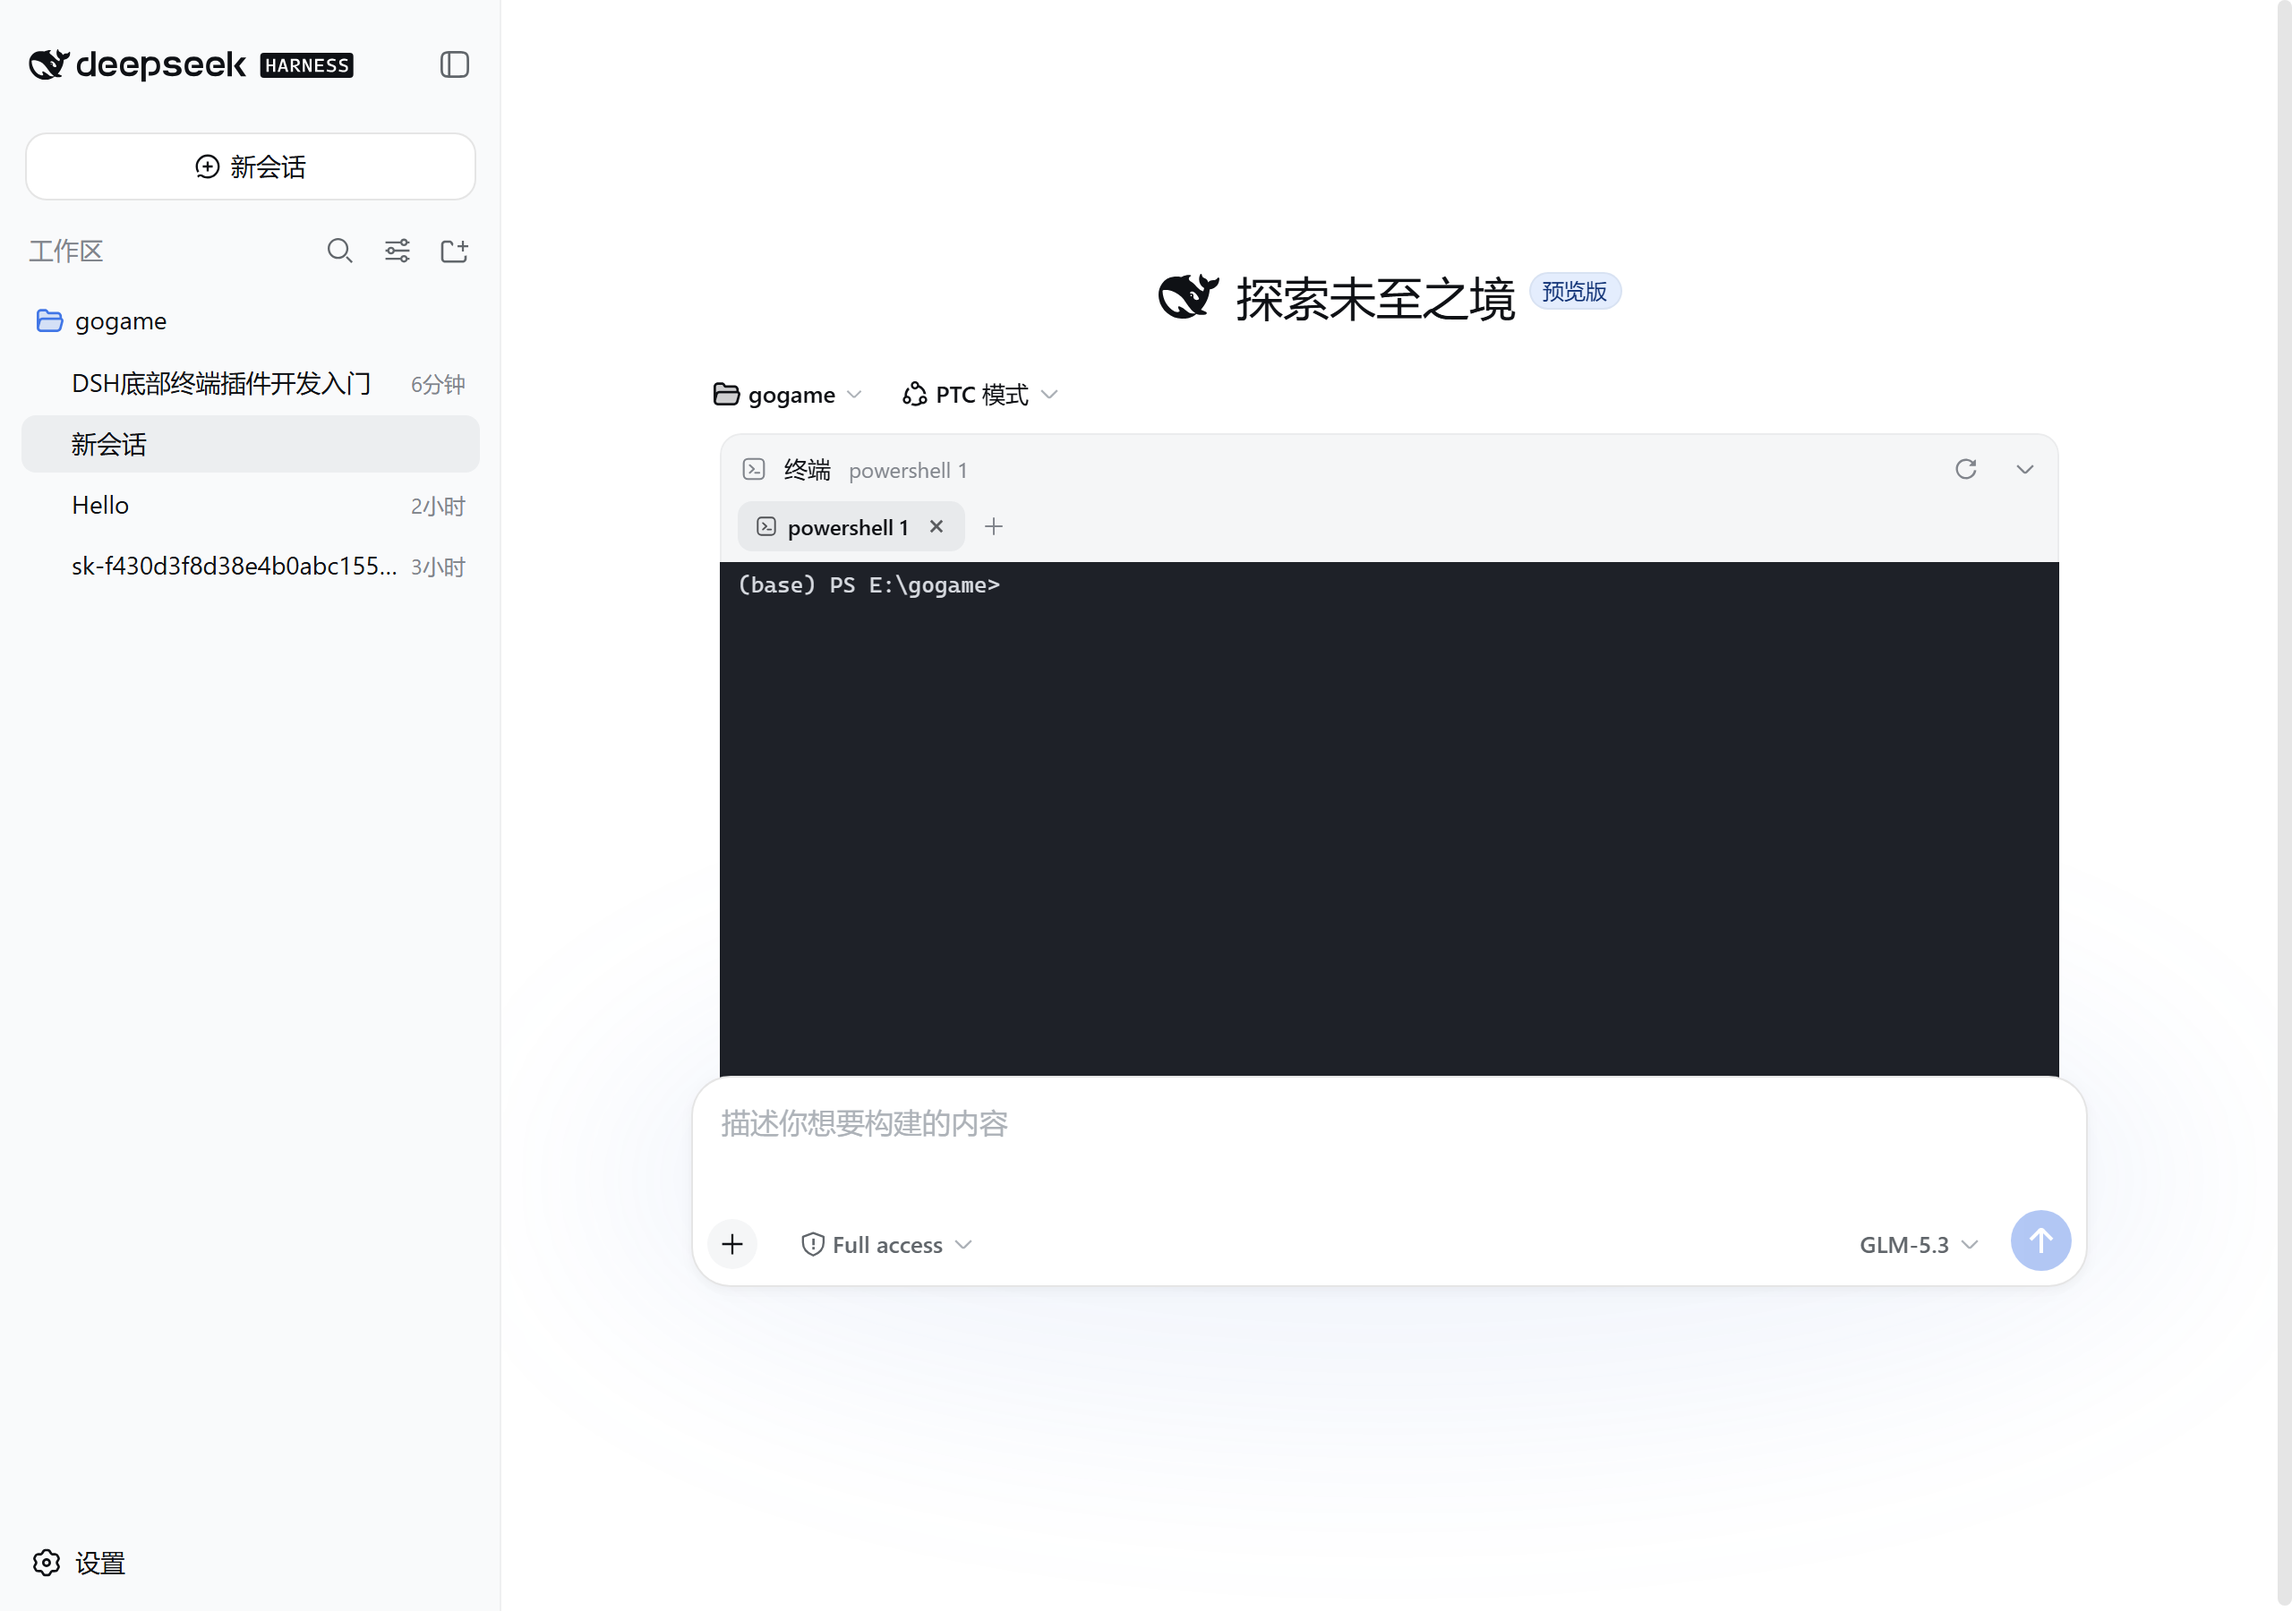
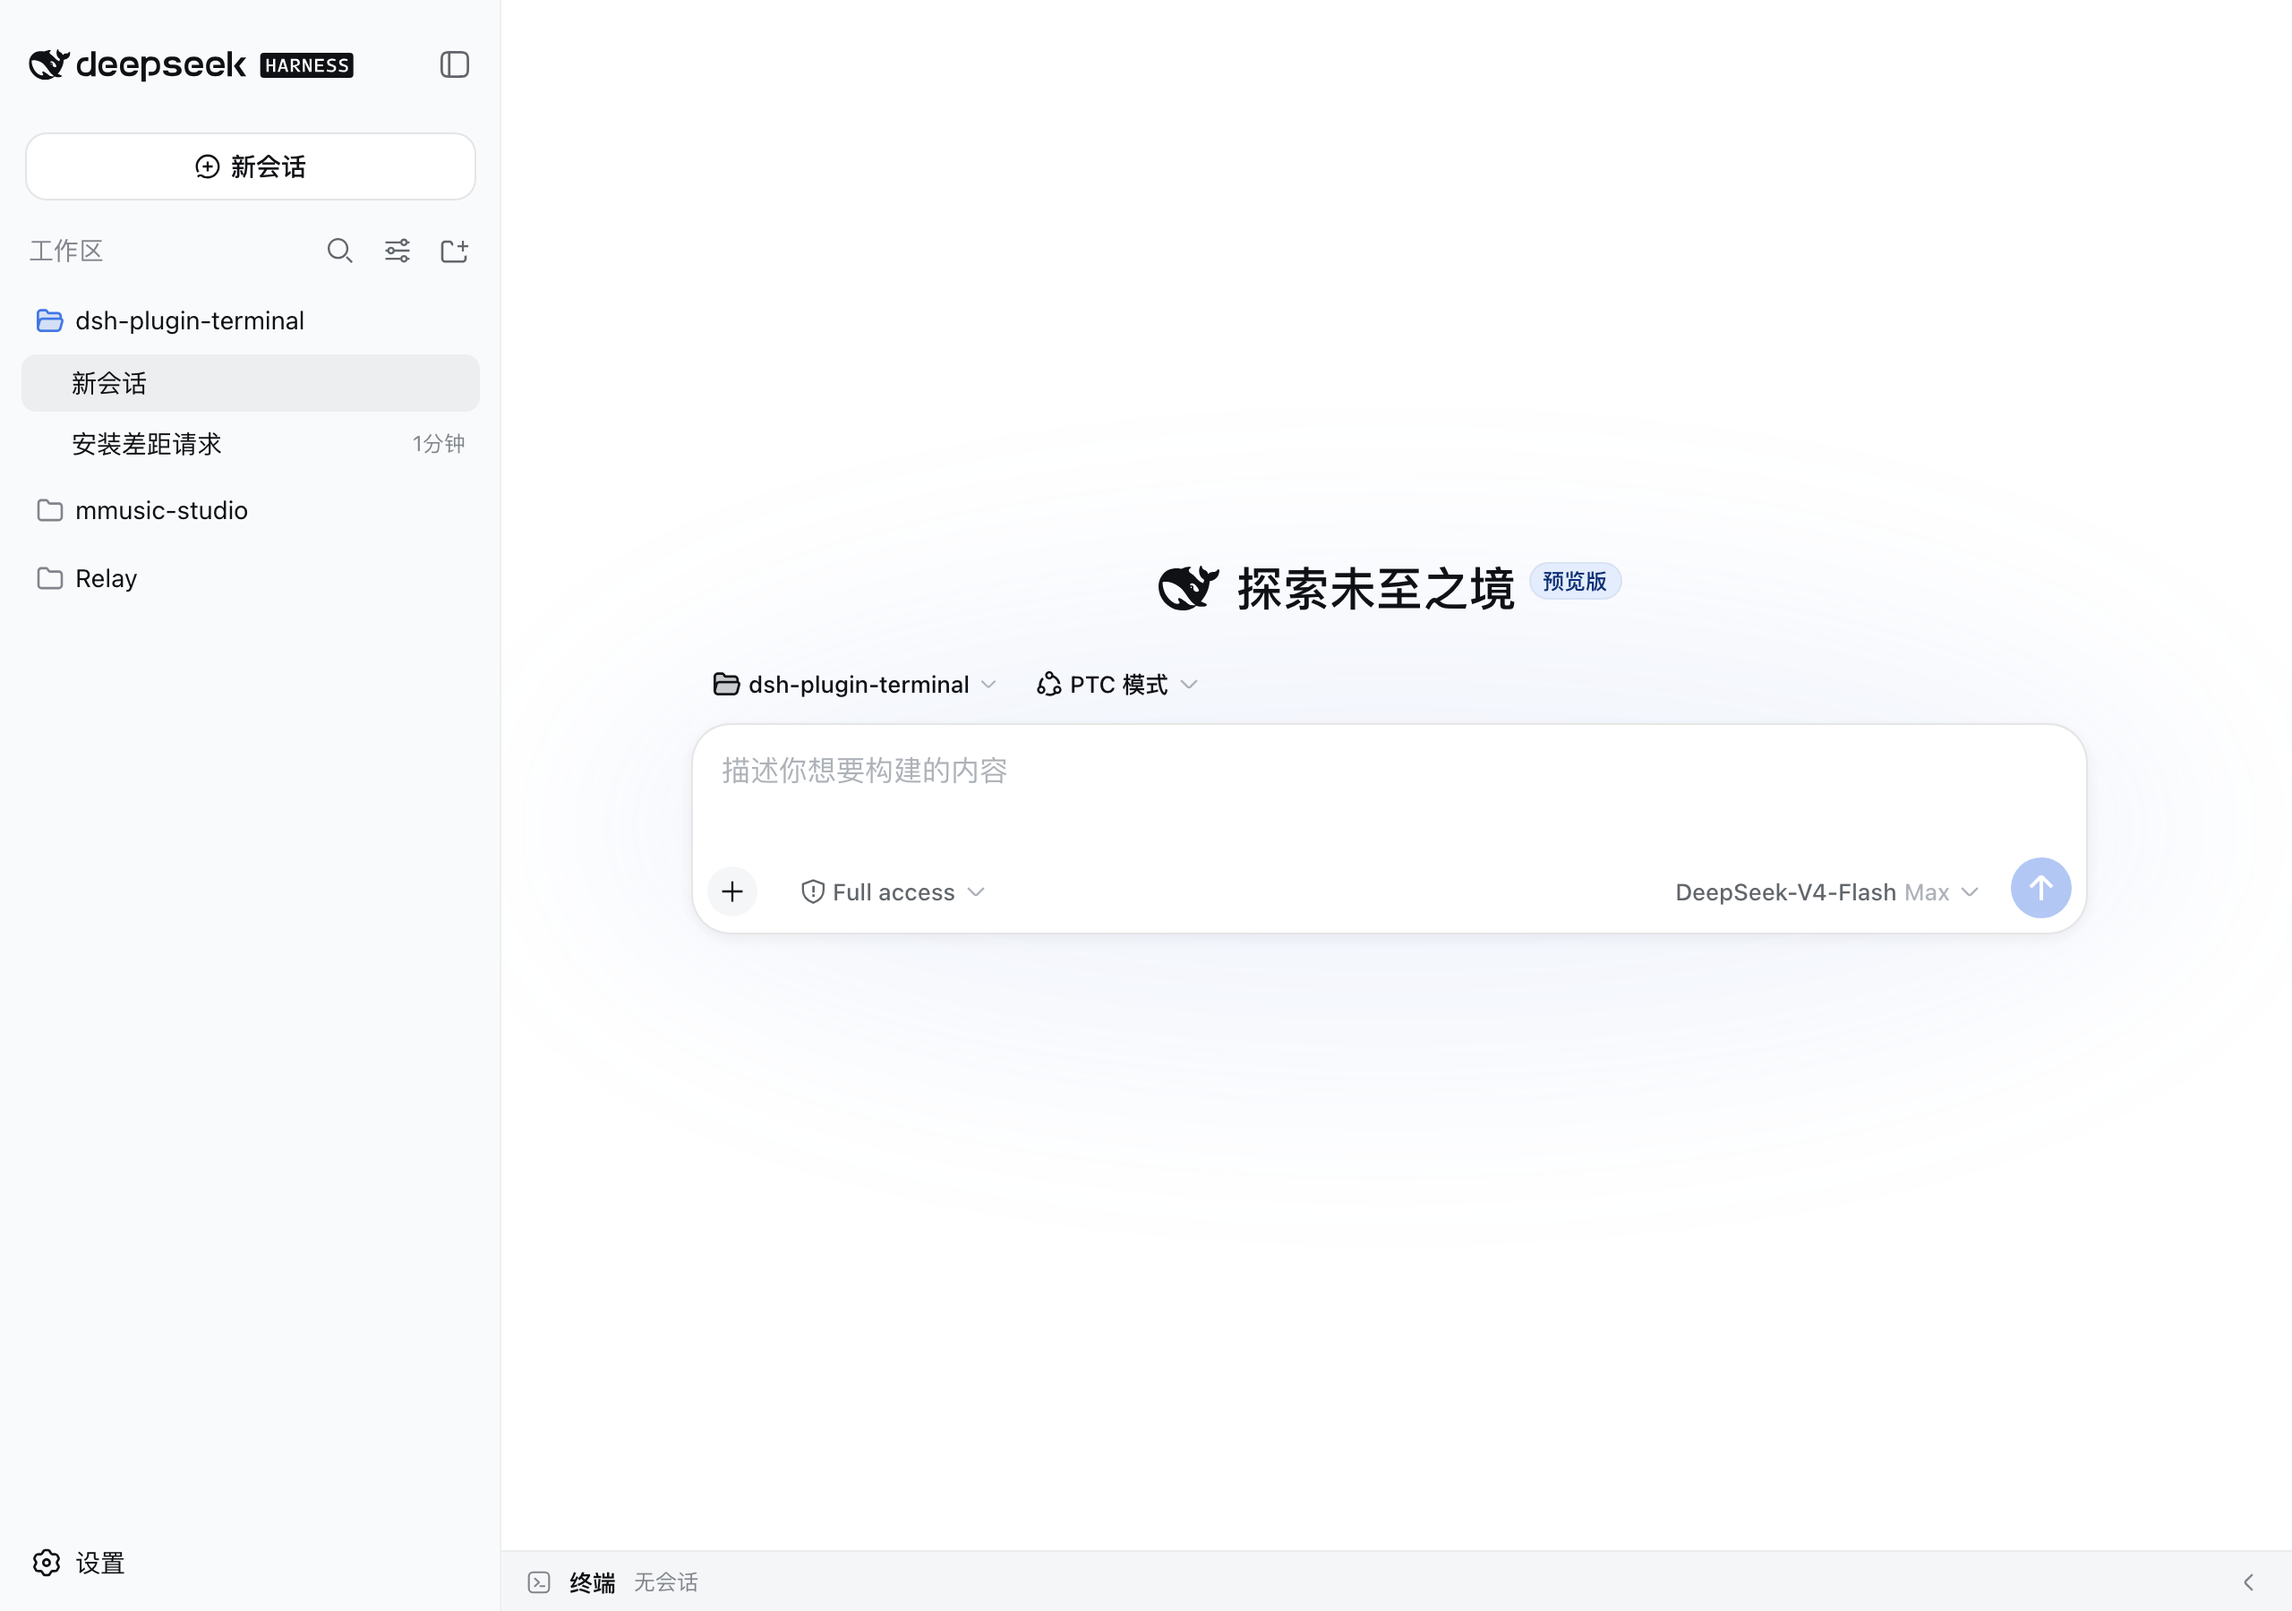
docs: bilingual README (EN + zh) with live screenshots
- README.md (English) and README.zh.md (Chinese), cross-linked
- screenshots captured via CDP headless Chrome (collapsed / expanded /
  multi-tab) into docs/, no sensitive content
- package.json files include README.zh.md

diff --git a/README.md b/README.md
@@ -1,59 +1,64 @@
 # dsh-plugin-terminal
 
-> DeepSeek Harness (DSH) Web GUI 的底部终端面板插件 —— 在页面底部挂一个真正可交互的多标签 shell（Windows 走 ConPTY，Linux/macOS 走 openpty）。
+> A bottom terminal panel plugin for the DeepSeek Harness (DSH) Web GUI — a real, interactive multi-tab shell pinned to the bottom of the page (ConPTY on Windows, openpty on Linux/macOS).
 
-[![License: MIT](https://img.shields.io/badge/License-MIT-yellow.svg)](LICENSE)
+[中文](README.zh.md) · [![License: MIT](https://img.shields.io/badge/License-MIT-yellow.svg)](LICENSE)
 
-## 用户说明
+## Screenshots
 
-- **底部终端面板**：固定在页面底部，宽度自动对齐对话列（不覆盖左侧栏/右侧栏）；**输入框始终在终端上方**，展开面板不影响对话输入
-- **展开/收起**：点击底部细条，或按 `Ctrl+``（反引号键）一键切换；折叠时细条显示当前会话状态
-- **调整高度**：拖拽面板顶部的 grip，高度范围 120px ~ 78% 视口，拖完自动记忆（`localStorage`）
-- **多标签页**：`+` 新建终端、✕ 关闭、⟳ 原位重启；每个标签独立会话，切换不中断进程；**刷新页面自动恢复全部存活会话**
-- **完整终端体验**：xterm.js 6 仿真——颜色、闪烁光标、备用屏幕（vim/htop 全屏程序）、Unicode 宽度、5000 行回滚
-- **低延迟**：WebSocket 双向通道与 PTY 直连
-- **暗色终端表面**（Windows Terminal 调色板）：深浅主题下所有终端颜色均可读
+| Collapsed bar | Expanded panel | Multi-tab |
+|---|---|---|
+| ![collapsed](docs/screenshot-collapsed.png) | ![panel](docs/screenshot-panel.png) | ![multitab](docs/screenshot-multitab.png) |
 
-### 常见问题
+## Features
 
-| 症状 | 处理 |
+- **Bottom terminal panel**: pinned to the bottom of the viewport; width tracks the conversation column automatically (side rails are never covered); **the input dialog always floats above the terminal**, so expanding the panel never blocks conversation input
+- **Toggle & resize**: click the bottom bar, or press `Ctrl+`` to toggle; drag the grip on top of the panel to resize (120px ~ 78% of the viewport, persisted in `localStorage`)
+- **Multi-tab**: `+` opens a new terminal, each tab owns an independent PTY session and scrollback, switching tabs never interrupts processes, ✕ closes, ⟳ restarts in place; **refreshing the page restores every live session as a tab**
+- **Full terminal experience**: xterm.js 6 — colors, blinking cursor, alternate screen (vim/htop), Unicode width, 5000-line scrollback
+- **Low latency**: WebSocket duplex channel straight to the PTY
+- **Dark terminal surface** (Windows Terminal palette): ANSI colors stay readable in both light and dark DSH themes
+
+### FAQ
+
+| Symptom | Fix |
 |---|---|
-| PTY 启动失败（`posix_spawnp failed`） | node-pty 预编译的 `spawn-helper` 丢失可执行位：`chmod +x <repo>/node_modules/.pnpm/node-pty@*/node_modules/node-pty/prebuilds/<platform>-<arch>/spawn-helper` |
-| pnpm 提示 `Ignored build scripts: node-pty` | 在 profile 的 `pnpm-workspace.yaml` 声明 `onlyBuiltDependencies`（见安装说明）后重跑 `pnpm install` |
-| 刷新后面板不出现 | 确认插件已进层栈（`dsh --profile web --dump-config` 应含 `terminal-panel`），并已重启 `dsh web` |
+| PTY spawn fails (`posix_spawnp failed`) | node-pty's prebuilt `spawn-helper` lost its executable bit: `chmod +x <repo>/node_modules/.pnpm/node-pty@*/node_modules/node-pty/prebuilds/<platform>-<arch>/spawn-helper` |
+| pnpm says `Ignored build scripts: node-pty` | add `onlyBuiltDependencies` (see Install) to the profile's `pnpm-workspace.yaml`, then re-run install |
+| Panel missing after refresh | make sure the plugin is in the layer stack (`dsh --profile web --dump-config` contains `terminal-panel`) and `dsh web` was restarted |
 
-## 安装说明
+## Install
 
-前置：已安装 `dsh` 并初始化过 web profile（`~/.dsh/profiles/web`）；需要 `pnpm`（`dsh plugin` 会把参数转发给 pnpm）。
+Prereq: `dsh` installed with a web profile initialized (`~/.dsh/profiles/web`); `pnpm` required (`dsh plugin` forwards its args to pnpm).
 
-### 一行安装（npm 已发布版本）
+### One-line install (npm package)
 
 ```sh
-# 安装（声明了 dsh.bundle，自动进入 profile 层栈，无需手动配置）
+# installs as an official bundle (declares dsh.bundle) - no manual config needed
 dsh plugin --profile web add dsh-plugin-terminal
 
-# 重启生效
-# （若 pnpm 提示 Ignored build scripts: node-pty，先在 profile 的 pnpm-workspace.yaml 加入：）
+# restart to activate
+# (if pnpm reports "Ignored build scripts: node-pty", first add this to the
+#  profile's pnpm-workspace.yaml, then re-run the add command:)
 # onlyBuiltDependencies:
 #   - node-pty
-# 然后重新执行上面的 add 命令
 dsh web
 ```
 
-### 本地/开发安装（改代码即时生效）
+### Local / development install (source changes apply live)
 
 ```sh
-dsh plugin --profile web add -w --link <本仓库路径>
+dsh plugin --profile web add -w --link <repo path>
 dsh web
 ```
 
-只想临时试用（不动 profile 配置，另起端口）：
+Try it without touching the profile (separate port):
 
 ```sh
-dsh --profile web --patch <本仓库路径>/cordis.patch.yml --port 3081
+dsh --profile web --patch <repo path>/cordis.patch.yml --port 3081
 ```
 
-> **生效范围**：client bundle（`lib/client.js`）的改动刷新页面即可生效；**host 端（`lib/index.js`）的改动需要重启 `dsh web`**（新路由/WS 端点注册发生在启动期）。
+> **Effect scope**: client bundle (`lib/client.js`) changes apply on page refresh; **host changes (`lib/index.js`) require restarting `dsh web`** (routes/WS endpoints register at startup).
 
 ## License
 

diff --git a/README.zh.md b/README.zh.md
@@ -1,0 +1,66 @@
+# dsh-plugin-terminal
+
+> DeepSeek Harness (DSH) Web GUI 的底部终端面板插件 —— 在页面底部挂一个真正可交互的多标签 shell（Windows 走 ConPTY，Linux/macOS 走 openpty）。
+
+[English](README.md) · [![License: MIT](https://img.shields.io/badge/License-MIT-yellow.svg)](LICENSE)
+
+## 示意图
+
+| 折叠细条 | 展开面板 | 多标签 |
+|---|---|---|
+| ![折叠](docs/screenshot-collapsed.png) | ![展开](docs/screenshot-panel.png) | ![多标签](docs/screenshot-multitab.png) |
+
+## 用户说明
+
+- **底部终端面板**：固定在页面底部，宽度自动对齐对话列（不覆盖左侧栏/右侧栏）；**输入框始终在终端上方**，展开面板不影响对话输入
+- **展开/收起**：点击底部细条，或按 `Ctrl+``（反引号键）一键切换；折叠时细条显示当前会话状态
+- **调整高度**：拖拽面板顶部的 grip，高度范围 120px ~ 78% 视口，拖完自动记忆（`localStorage`）
+- **多标签页**：`+` 新建终端、✕ 关闭、⟳ 原位重启；每个标签独立会话，切换不中断进程；**刷新页面自动恢复全部存活会话**
+- **完整终端体验**：xterm.js 6 仿真——颜色、闪烁光标、备用屏幕（vim/htop 全屏程序）、Unicode 宽度、5000 行回滚
+- **低延迟**：WebSocket 双向通道与 PTY 直连
+- **暗色终端表面**（Windows Terminal 调色板）：深浅主题下所有终端颜色均可读
+
+### 常见问题
+
+| 症状 | 处理 |
+|---|---|
+| PTY 启动失败（`posix_spawnp failed`） | node-pty 预编译的 `spawn-helper` 丢失可执行位：`chmod +x <repo>/node_modules/.pnpm/node-pty@*/node_modules/node-pty/prebuilds/<platform>-<arch>/spawn-helper` |
+| pnpm 提示 `Ignored build scripts: node-pty` | 在 profile 的 `pnpm-workspace.yaml` 声明 `onlyBuiltDependencies`（见安装说明）后重跑安装 |
+| 刷新后面板不出现 | 确认插件已进层栈（`dsh --profile web --dump-config` 应含 `terminal-panel`），并已重启 `dsh web` |
+
+## 安装说明
+
+前置：已安装 `dsh` 并初始化过 web profile（`~/.dsh/profiles/web`）；需要 `pnpm`（`dsh plugin` 会把参数转发给 pnpm）。
+
+### 一行安装（npm 已发布版本）
+
+```sh
+# 安装（声明了 dsh.bundle，自动进入 profile 层栈，无需手动配置）
+dsh plugin --profile web add dsh-plugin-terminal
+
+# 重启生效
+# （若 pnpm 提示 Ignored build scripts: node-pty，先在 profile 的 pnpm-workspace.yaml 加入：）
+# onlyBuiltDependencies:
+#   - node-pty
+# 然后重新执行上面的 add 命令
+dsh web
+```
+
+### 本地/开发安装（改代码即时生效）
+
+```sh
+dsh plugin --profile web add -w --link <本仓库路径>
+dsh web
+```
+
+只想临时试用（不动 profile 配置，另起端口）：
+
+```sh
+dsh --profile web --patch <本仓库路径>/cordis.patch.yml --port 3081
+```
+
+> **生效范围**：client bundle（`lib/client.js`）的改动刷新页面即可生效；**host 端（`lib/index.js`）的改动需要重启 `dsh web`**（新路由/WS 端点注册发生在启动期）。
+
+## License
+
+MIT
